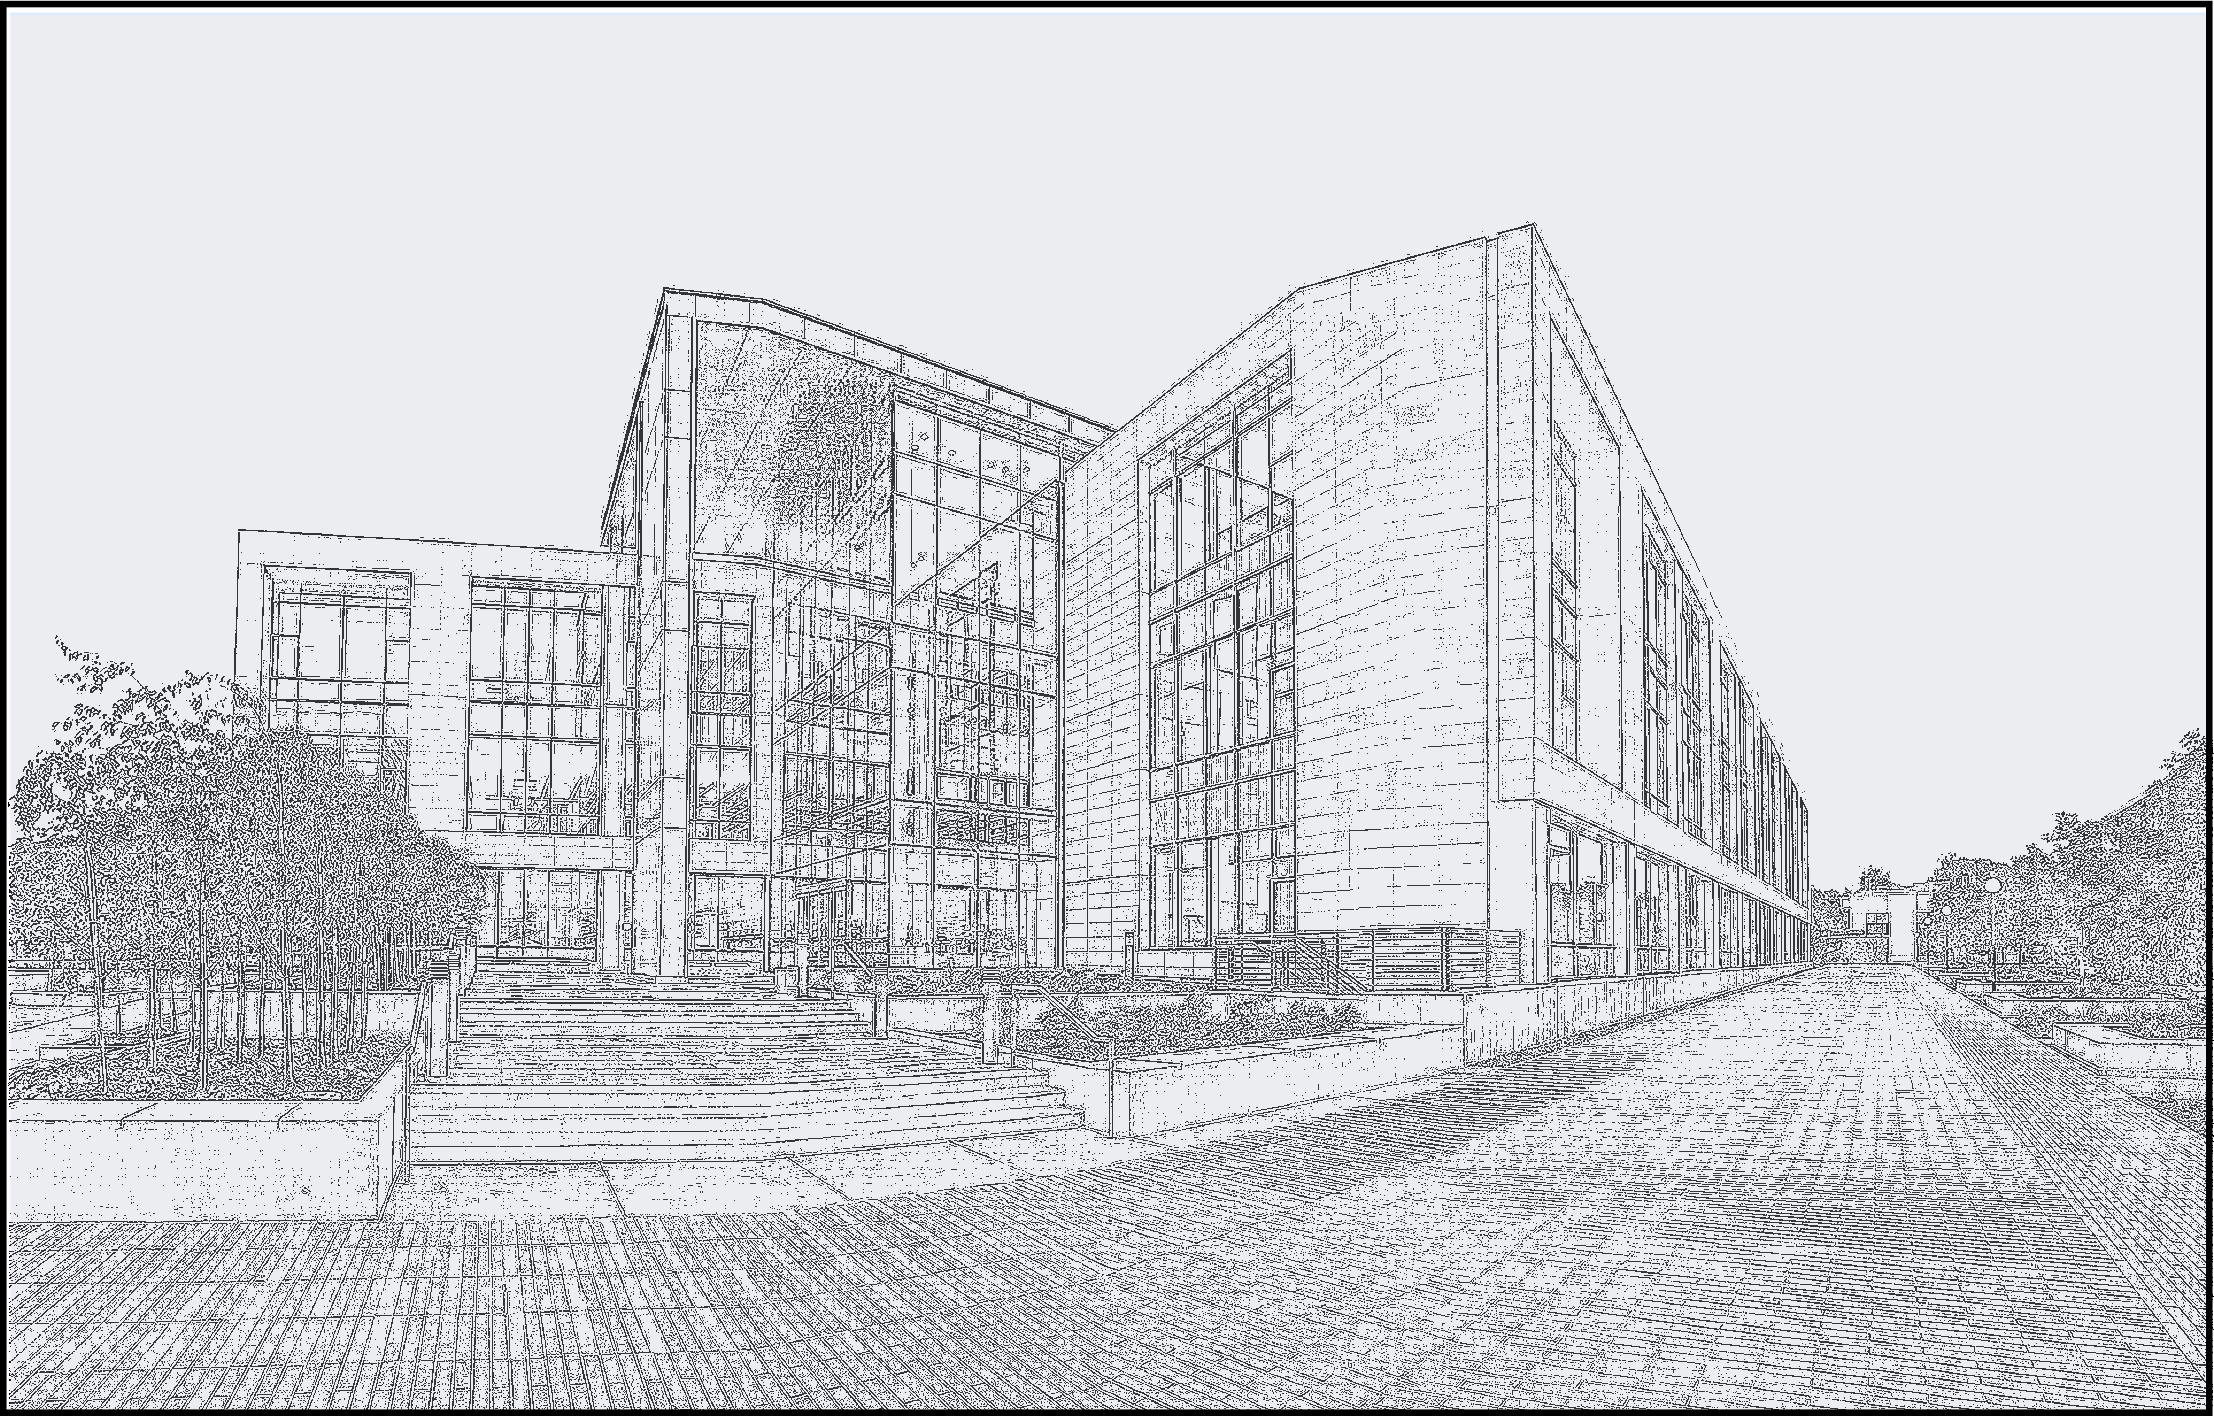
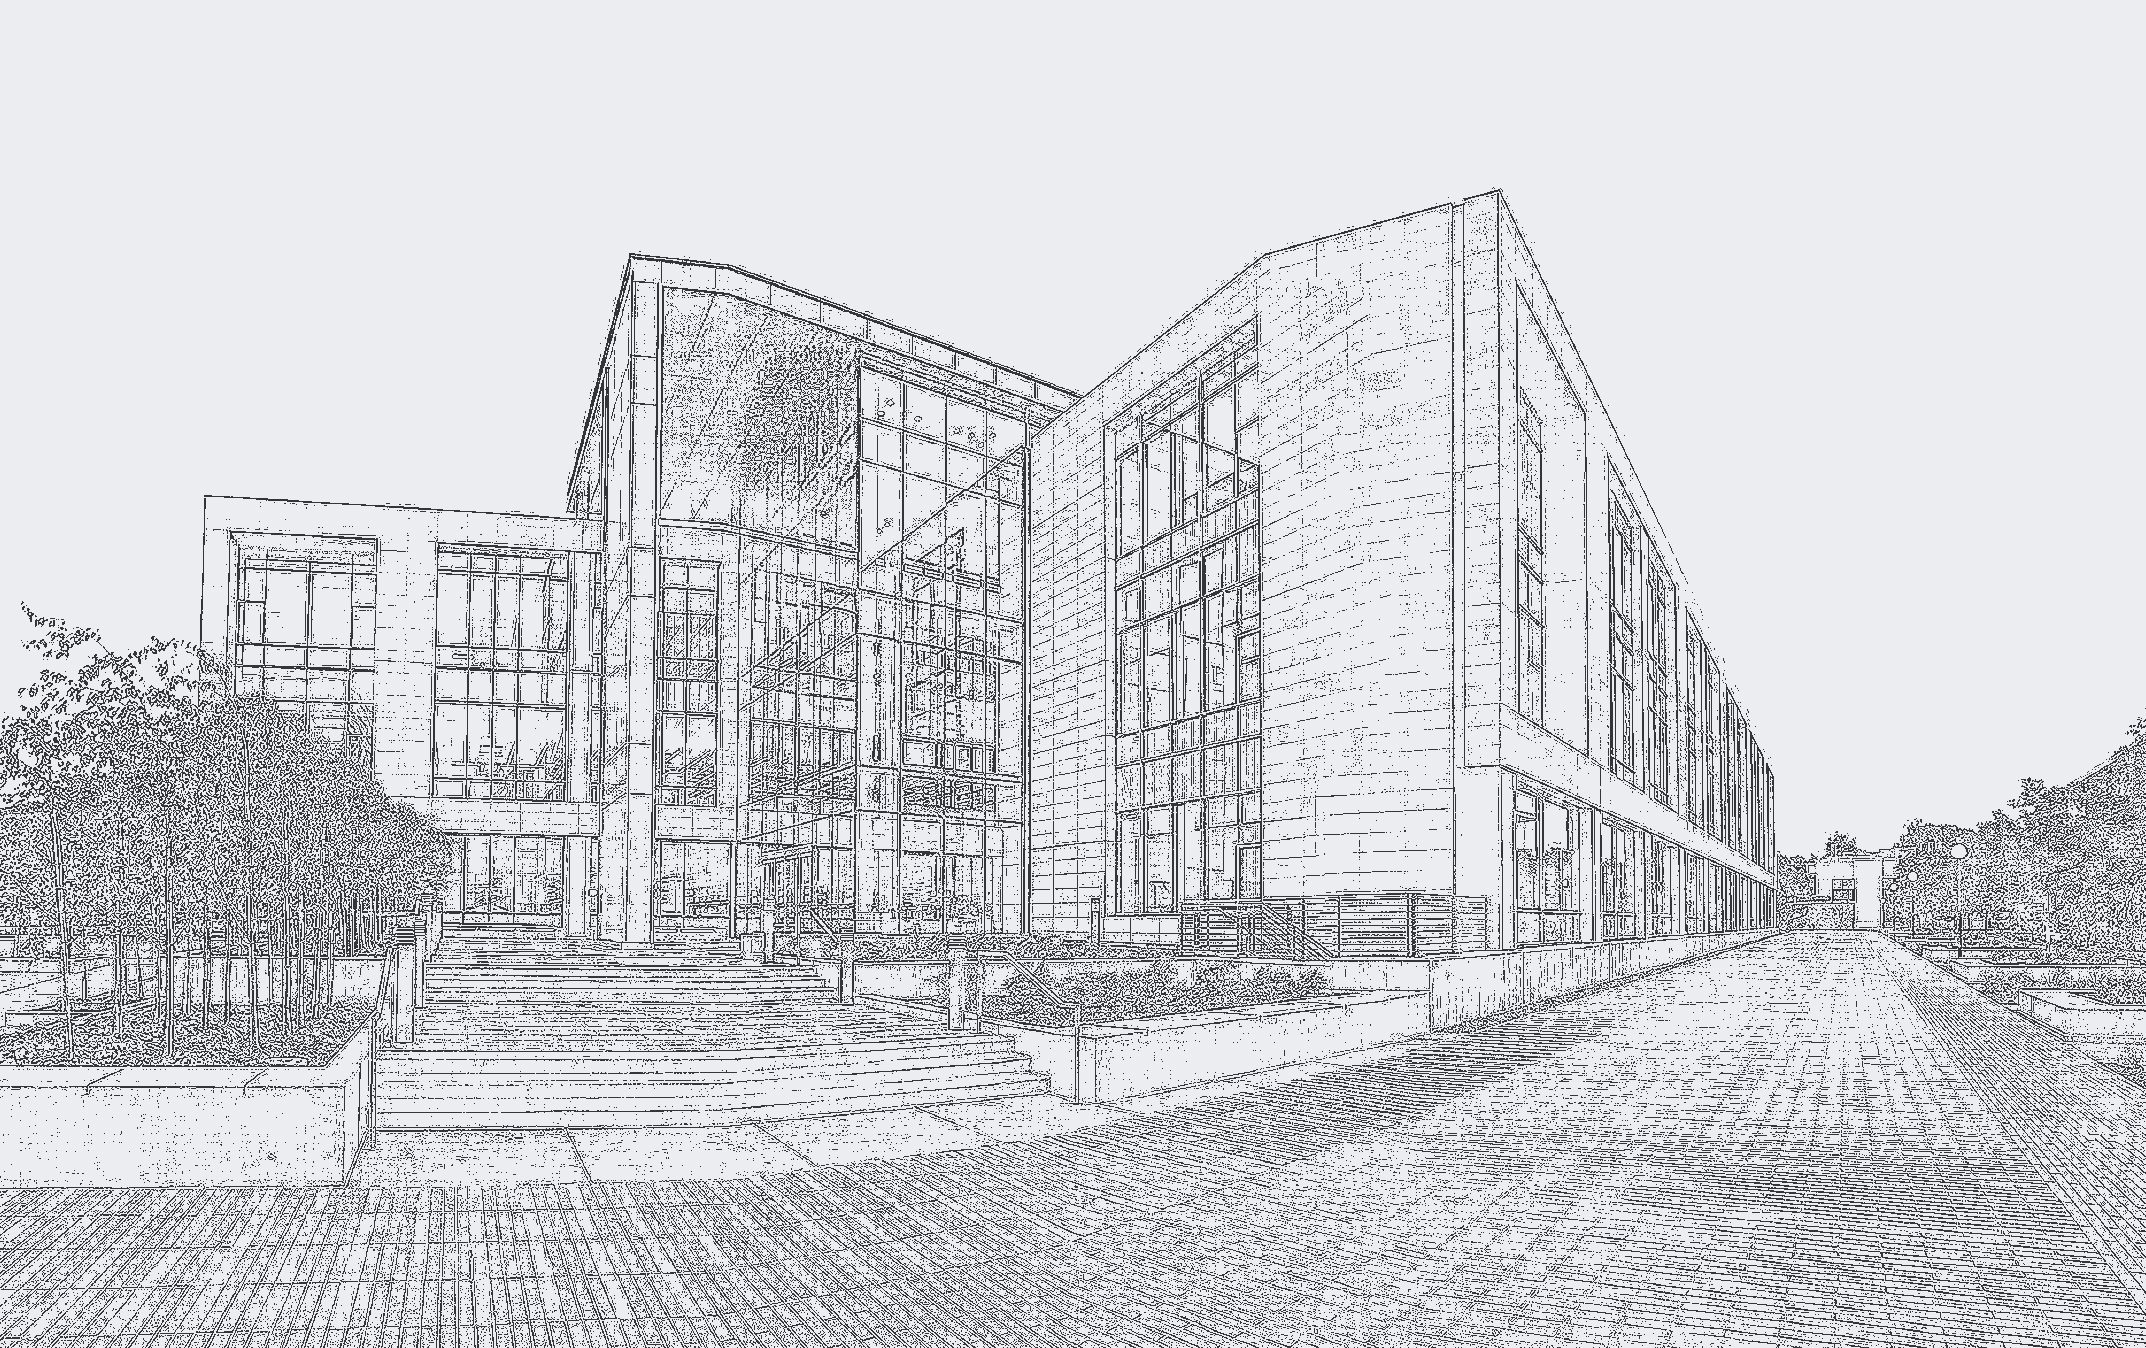
Contact: two balanced tiles; center location sketch at natural ratio; crop image border

diff --git a/pages/Contact.md b/pages/Contact.md
@@ -6,37 +6,76 @@ subtitle: Asiri Lab Contact
 
 <style>
 .contact-section { margin-top: 34px; }
-.contact-img img {
-  width: 100%;
-  height: auto;
-  border-radius: 0;
-  box-shadow: 0 2px 14px rgba(0,0,0,0.10);
-  display: block;
-}
-.contact-text p { color: #404040; line-height: 1.7; text-align: justify; font-size: 15px; }
-.contact-map iframe {
-  width: 100%;
-  height: 320px;
-  border: 0;
-  border-radius: 8px;
-  box-shadow: 0 2px 14px rgba(0,0,0,0.10);
-  display: block;
-}
-.contact-card {
-  background: rgba(157, 72, 68, 0.06);
-  border: 1px solid rgba(157, 72, 68, 0.14);
-  border-radius: 10px;
-  padding: 22px 24px;
-}
-.contact-card h4 { color: #9d4844; font-weight: 700; margin: 0 0 14px; font-size: clamp(1.05rem, 0.5vw + 0.9rem, 1.25rem); }
-.contact-line { font-size: 14.5px; color: #333; line-height: 1.75; }
-.contact-line + .contact-line { margin-top: 12px; }
-.contact-line strong { color: #6f2f2c; }
 
-/* Space between the map and the address card when stacked on phones/tablets */
-@media (max-width: 991px) {
-  .contact-map { margin-bottom: 26px; }
+.contact-grid {
+  display: grid;
+  grid-template-columns: repeat(2, 1fr);
+  gap: 30px;
+  align-items: stretch;
+  margin-top: 34px;
 }
+@media (max-width: 820px) { .contact-grid { grid-template-columns: 1fr; } }
+
+.contact-tile {
+  background: #fff;
+  border: 1px solid #ececec;
+  border-radius: 8px;
+  overflow: hidden;
+  box-shadow: 0 1px 4px rgba(0,0,0,0.06), 0 6px 18px rgba(0,0,0,0.05);
+  transition: transform 0.3s ease, box-shadow 0.3s ease;
+  display: flex;
+  flex-direction: column;
+}
+.contact-tile:hover { transform: translateY(-4px); box-shadow: 0 14px 30px rgba(157,72,68,0.16); }
+
+.contact-tile-media {
+  position: relative;
+  width: 100%;
+  aspect-ratio: 16 / 9;
+  background: #f4f4f4;
+  border-bottom: 1px solid #f0f0f0;
+}
+.contact-tile-media img,
+.contact-tile-media iframe {
+  position: absolute;
+  inset: 0;
+  width: 100%;
+  height: 100%;
+  object-fit: cover;
+  border: 0;
+  display: block;
+}
+/* Location image sits centered at its natural ratio (no cover-crop distortion) */
+.contact-tile-media--img { background: #fff; }
+.contact-tile-media--img img {
+  object-fit: contain;
+  padding: 16px;
+}
+
+.contact-tile-body {
+  padding: 22px 26px 26px;
+  flex: 1 1 auto;
+  display: flex;
+  flex-direction: column;
+}
+.contact-tile-body h4 {
+  color: #9d4844;
+  font-weight: 700;
+  margin: 0 0 14px;
+  font-size: clamp(1.15rem, 0.6vw + 1rem, 1.4rem);
+}
+.contact-tile-body p {
+  color: #404040;
+  line-height: 1.7;
+  font-size: 14.5px;
+  margin: 0 0 12px;
+}
+.contact-tile-body p:last-child { margin-bottom: 0; }
+.contact-tile-body a { color: #9d4844; font-weight: 600; }
+
+.contact-addr { font-size: 14.5px; color: #333; line-height: 1.8; }
+.contact-addr + .contact-addr { margin-top: 16px; }
+.contact-addr strong { color: #6f2f2c; }
 </style>
 
 <div class="container" style="padding-top: 60px; margin-top: -60px;">
@@ -45,34 +84,34 @@ subtitle: Asiri Lab Contact
   </div>
 </div>
 
-<div class="container contact-section">
-  <div class="row">
-    <div class="col-md-5 contact-img">
-      <img src="/img/chihuly.png" alt="Lorry I. Lokey Stem Cell Research Building" />
-    </div>
-    <div class="col-md-7 contact-text">
-      <p>We are located on the 3rd floor of the <strong><a href="https://med.stanford.edu/stemcell/research/sim1.html">Lorry I. Lokey Stem Cell Research Building</a></strong> at 265 Campus Drive, Stanford University School of Medicine. Asiri's office is room number G3101D and the lab is room number G3015.</p>
+<div class="container">
+  <div class="contact-grid">
 
-      <p>We encourage you to review our research <strong><a href="{{ site.baseurl }}/pages/Research">interests</a></strong> and <strong><a href="{{ site.baseurl }}/pages/Publications">publications</a></strong> on this website to learn more about our group. If you are interested in interviewing, rotating, collaborating, or learning more about our research, <strong><a href="mailto:asiri@stanford.edu">send Asiri an email</a></strong> to set up a time to talk about ongoing projects or new collaborations. Potential postdoctoral research and clinical fellows can include their CV or Biosketch, and a short statement on the types of projects that they are interested in pursuing in the Asiri Lab. You can learn about postdoctoral research positions at Stanford by visiting this <strong><a href="https://postdocs.stanford.edu/prospective-postdocs">website</a></strong>.</p>
-
-      <p>If you are interested in philanthropically supporting our research, please visit our <strong><a href="https://med.stanford.edu/hematology/support-us.html">donations</a></strong> page for more information on how to contribute to our work.</p>
+    <div class="contact-tile">
+      <div class="contact-tile-media contact-tile-media--img">
+        <img src="/img/chihuly.png" alt="Lorry I. Lokey Stem Cell Research Building" />
+      </div>
+      <div class="contact-tile-body">
+        <h4>Our Location</h4>
+        <p>We are located on the 3rd floor of the <strong><a href="https://med.stanford.edu/stemcell/research/sim1.html">Lorry I. Lokey Stem Cell Research Building</a></strong> at 265 Campus Drive, Stanford University School of Medicine. Asiri's office is room number G3101D and the lab is room number G3015.</p>
+        <p>We encourage you to review our research <strong><a href="{{ site.baseurl }}/pages/Research">interests</a></strong> and <strong><a href="{{ site.baseurl }}/pages/Publications">publications</a></strong> on this website to learn more about our group. If you are interested in interviewing, rotating, collaborating, or learning more about our research, <strong><a href="mailto:asiri@stanford.edu">send Asiri an email</a></strong> to set up a time to talk about ongoing projects or new collaborations. Potential postdoctoral research and clinical fellows can include their CV or Biosketch, and a short statement on the types of projects that they are interested in pursuing in the Asiri Lab. You can learn about postdoctoral research positions at Stanford by visiting this <strong><a href="https://postdocs.stanford.edu/prospective-postdocs">website</a></strong>.</p>
+        <p>If you are interested in philanthropically supporting our research, please visit our <strong><a href="https://med.stanford.edu/hematology/support-us.html">donations</a></strong> page for more information on how to contribute to our work.</p>
+      </div>
     </div>
-  </div>
 
-  <div class="row contact-section">
-    <div class="col-md-7 contact-map">
-      <iframe src="https://www.google.com/maps/embed?pb=!1m18!1m12!1m3!1d3168.240070233619!2d-122.17755500000001!3d37.4314331!2m3!1f0!2f0!3f0!3m2!1i1024!2i768!4f13.1!3m3!1m2!1s0x808fa4d3a0409ddd%3A0xcd7c01452d0736f0!2sLokey%20Stem%20Cell%20Research%20Building!5e0!3m2!1sen!2sus!4v1761548562264!5m2!1sen!2sus" allowfullscreen="" loading="lazy" referrerpolicy="no-referrer-when-downgrade"></iframe>
-    </div>
-    <div class="col-md-5">
-      <div class="contact-card">
+    <div class="contact-tile">
+      <div class="contact-tile-media">
+        <iframe src="https://www.google.com/maps/embed?pb=!1m18!1m12!1m3!1d3168.240070233619!2d-122.17755500000001!3d37.4314331!2m3!1f0!2f0!3f0!3m2!1i1024!2i768!4f13.1!3m3!1m2!1s0x808fa4d3a0409ddd%3A0xcd7c01452d0736f0!2sLokey%20Stem%20Cell%20Research%20Building!5e0!3m2!1sen!2sus!4v1761548562264!5m2!1sen!2sus" allowfullscreen="" loading="lazy" referrerpolicy="no-referrer-when-downgrade"></iframe>
+      </div>
+      <div class="contact-tile-body">
         <h4>Asiri Lab</h4>
-        <div class="contact-line">
+        <div class="contact-addr">
           Lokey Stem Cell Research Building<br>
           Room G3015<br>
           265 Campus Drive<br>
           Stanford, CA 94305
         </div>
-        <div class="contact-line">
+        <div class="contact-addr">
           <strong>PI Phone:</strong> (650) 723-1358<br>
           <strong>PI Email:</strong> asiri (at) stanford.edu<br>
           <strong>Admin Phone:</strong> (650) 498-8643<br>
@@ -80,5 +119,6 @@ subtitle: Asiri Lab Contact
         </div>
       </div>
     </div>
+
   </div>
 </div>
